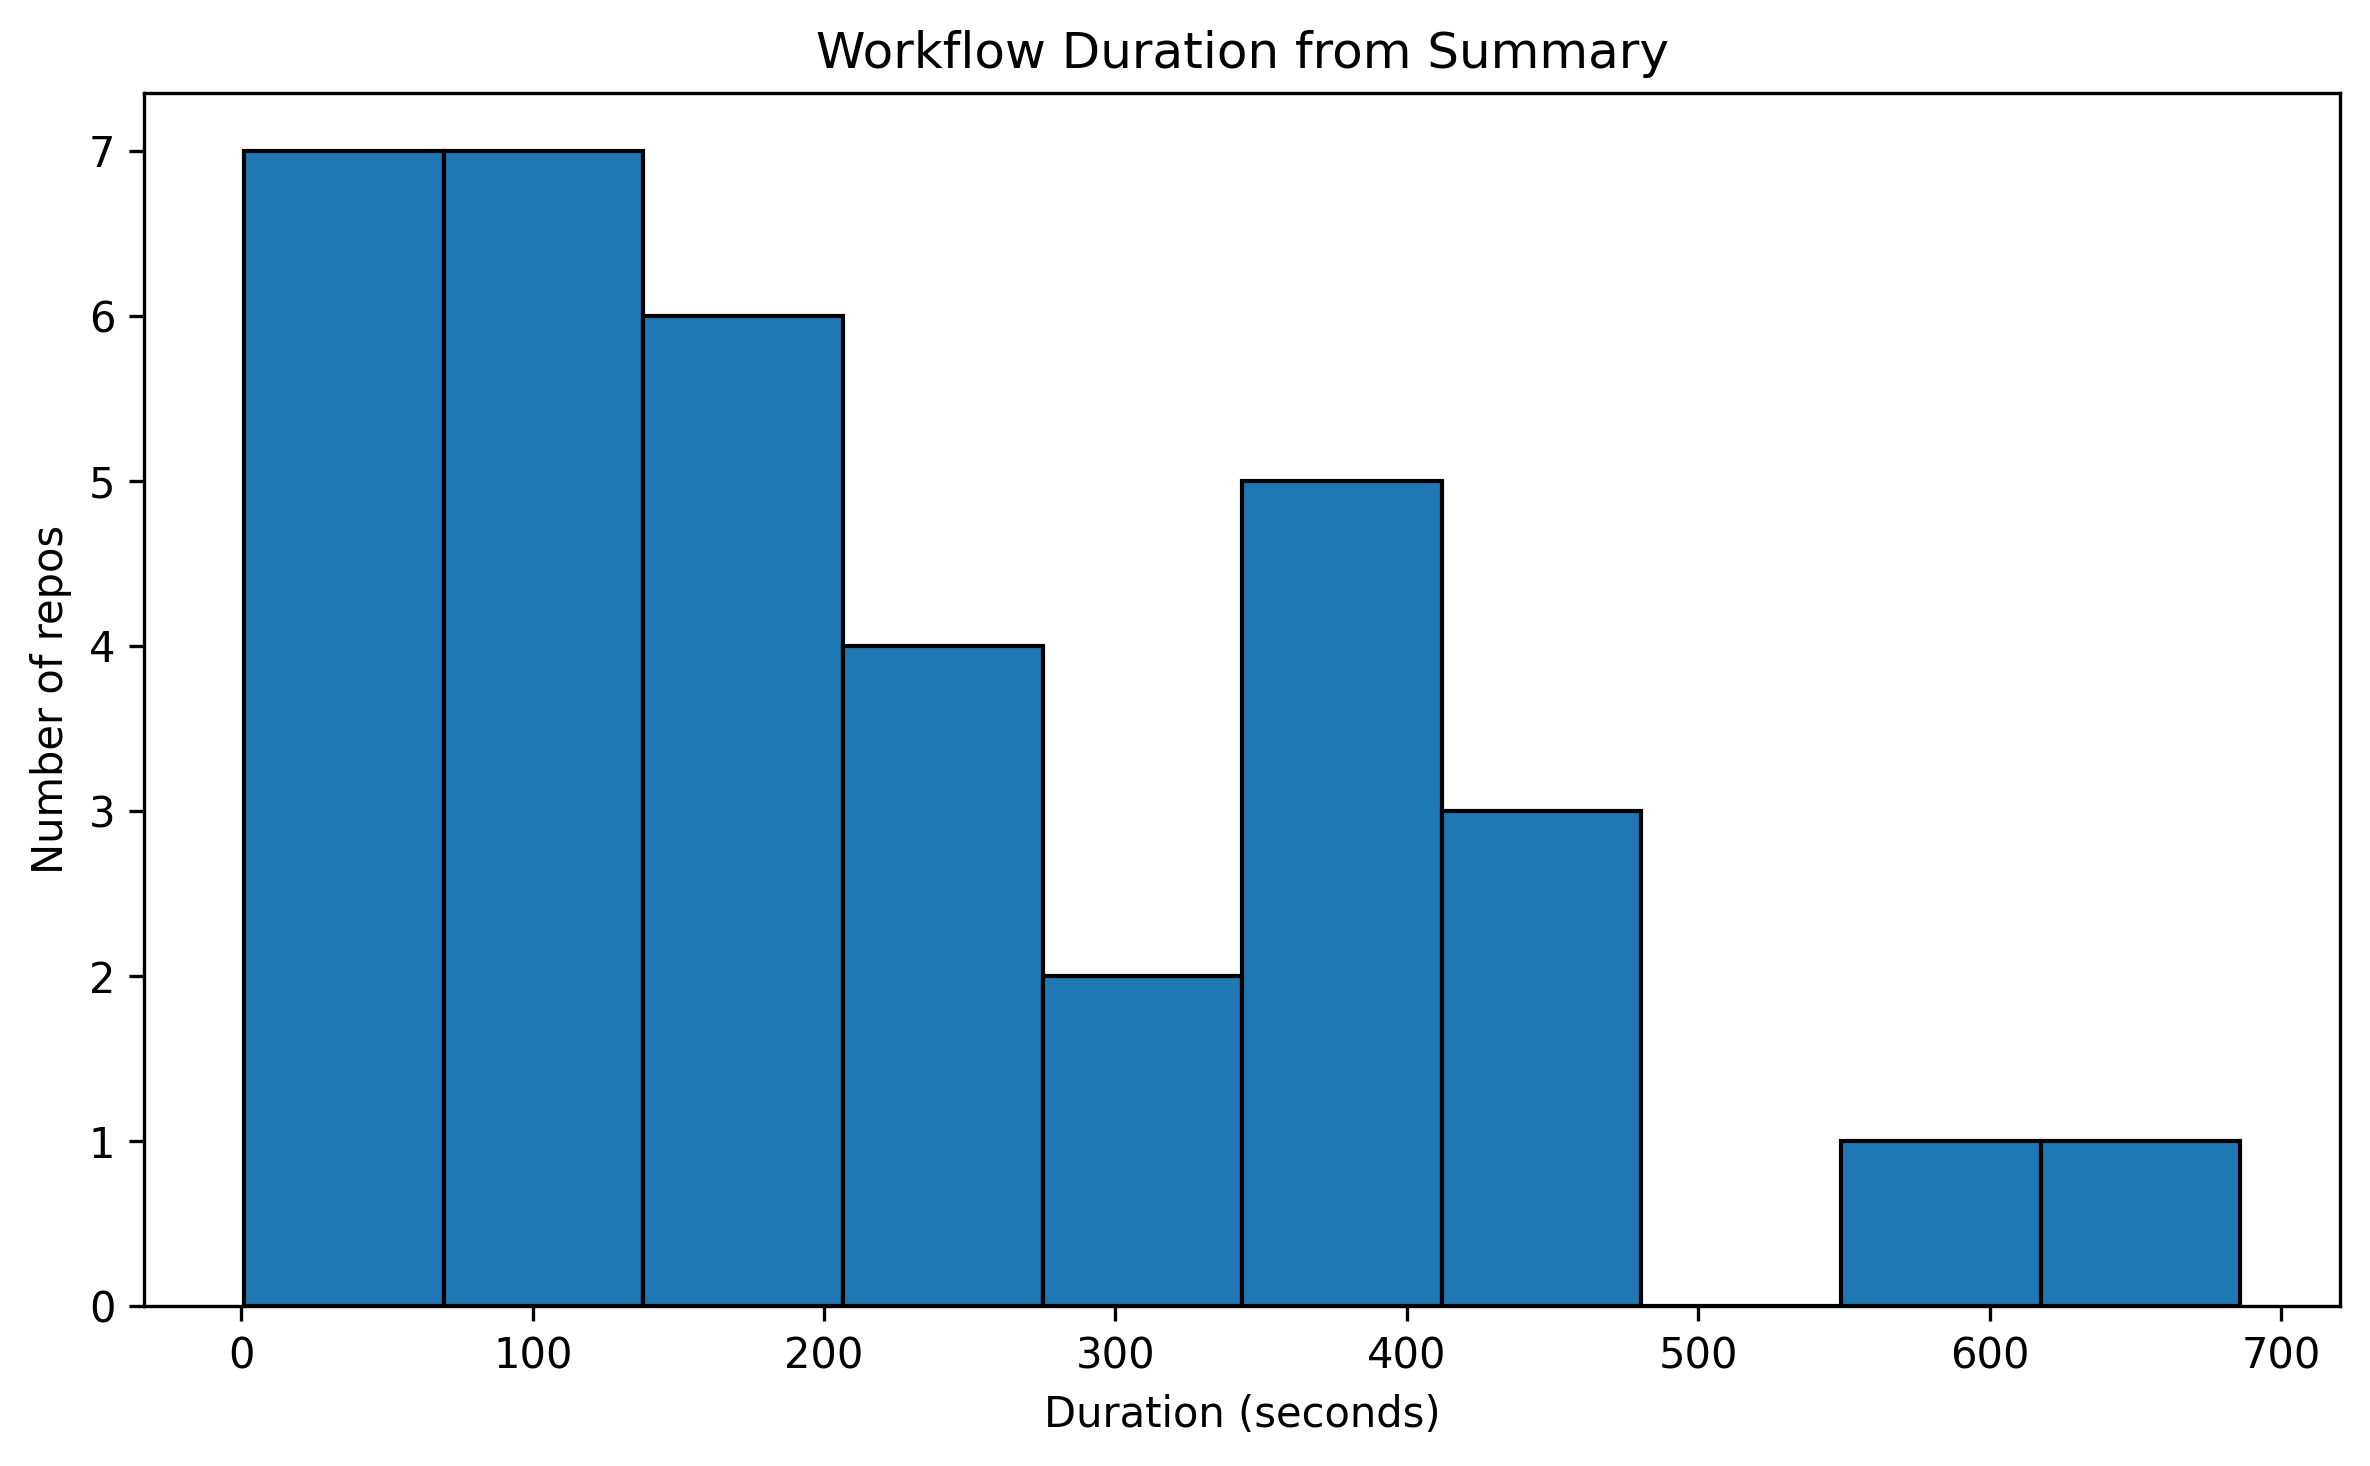
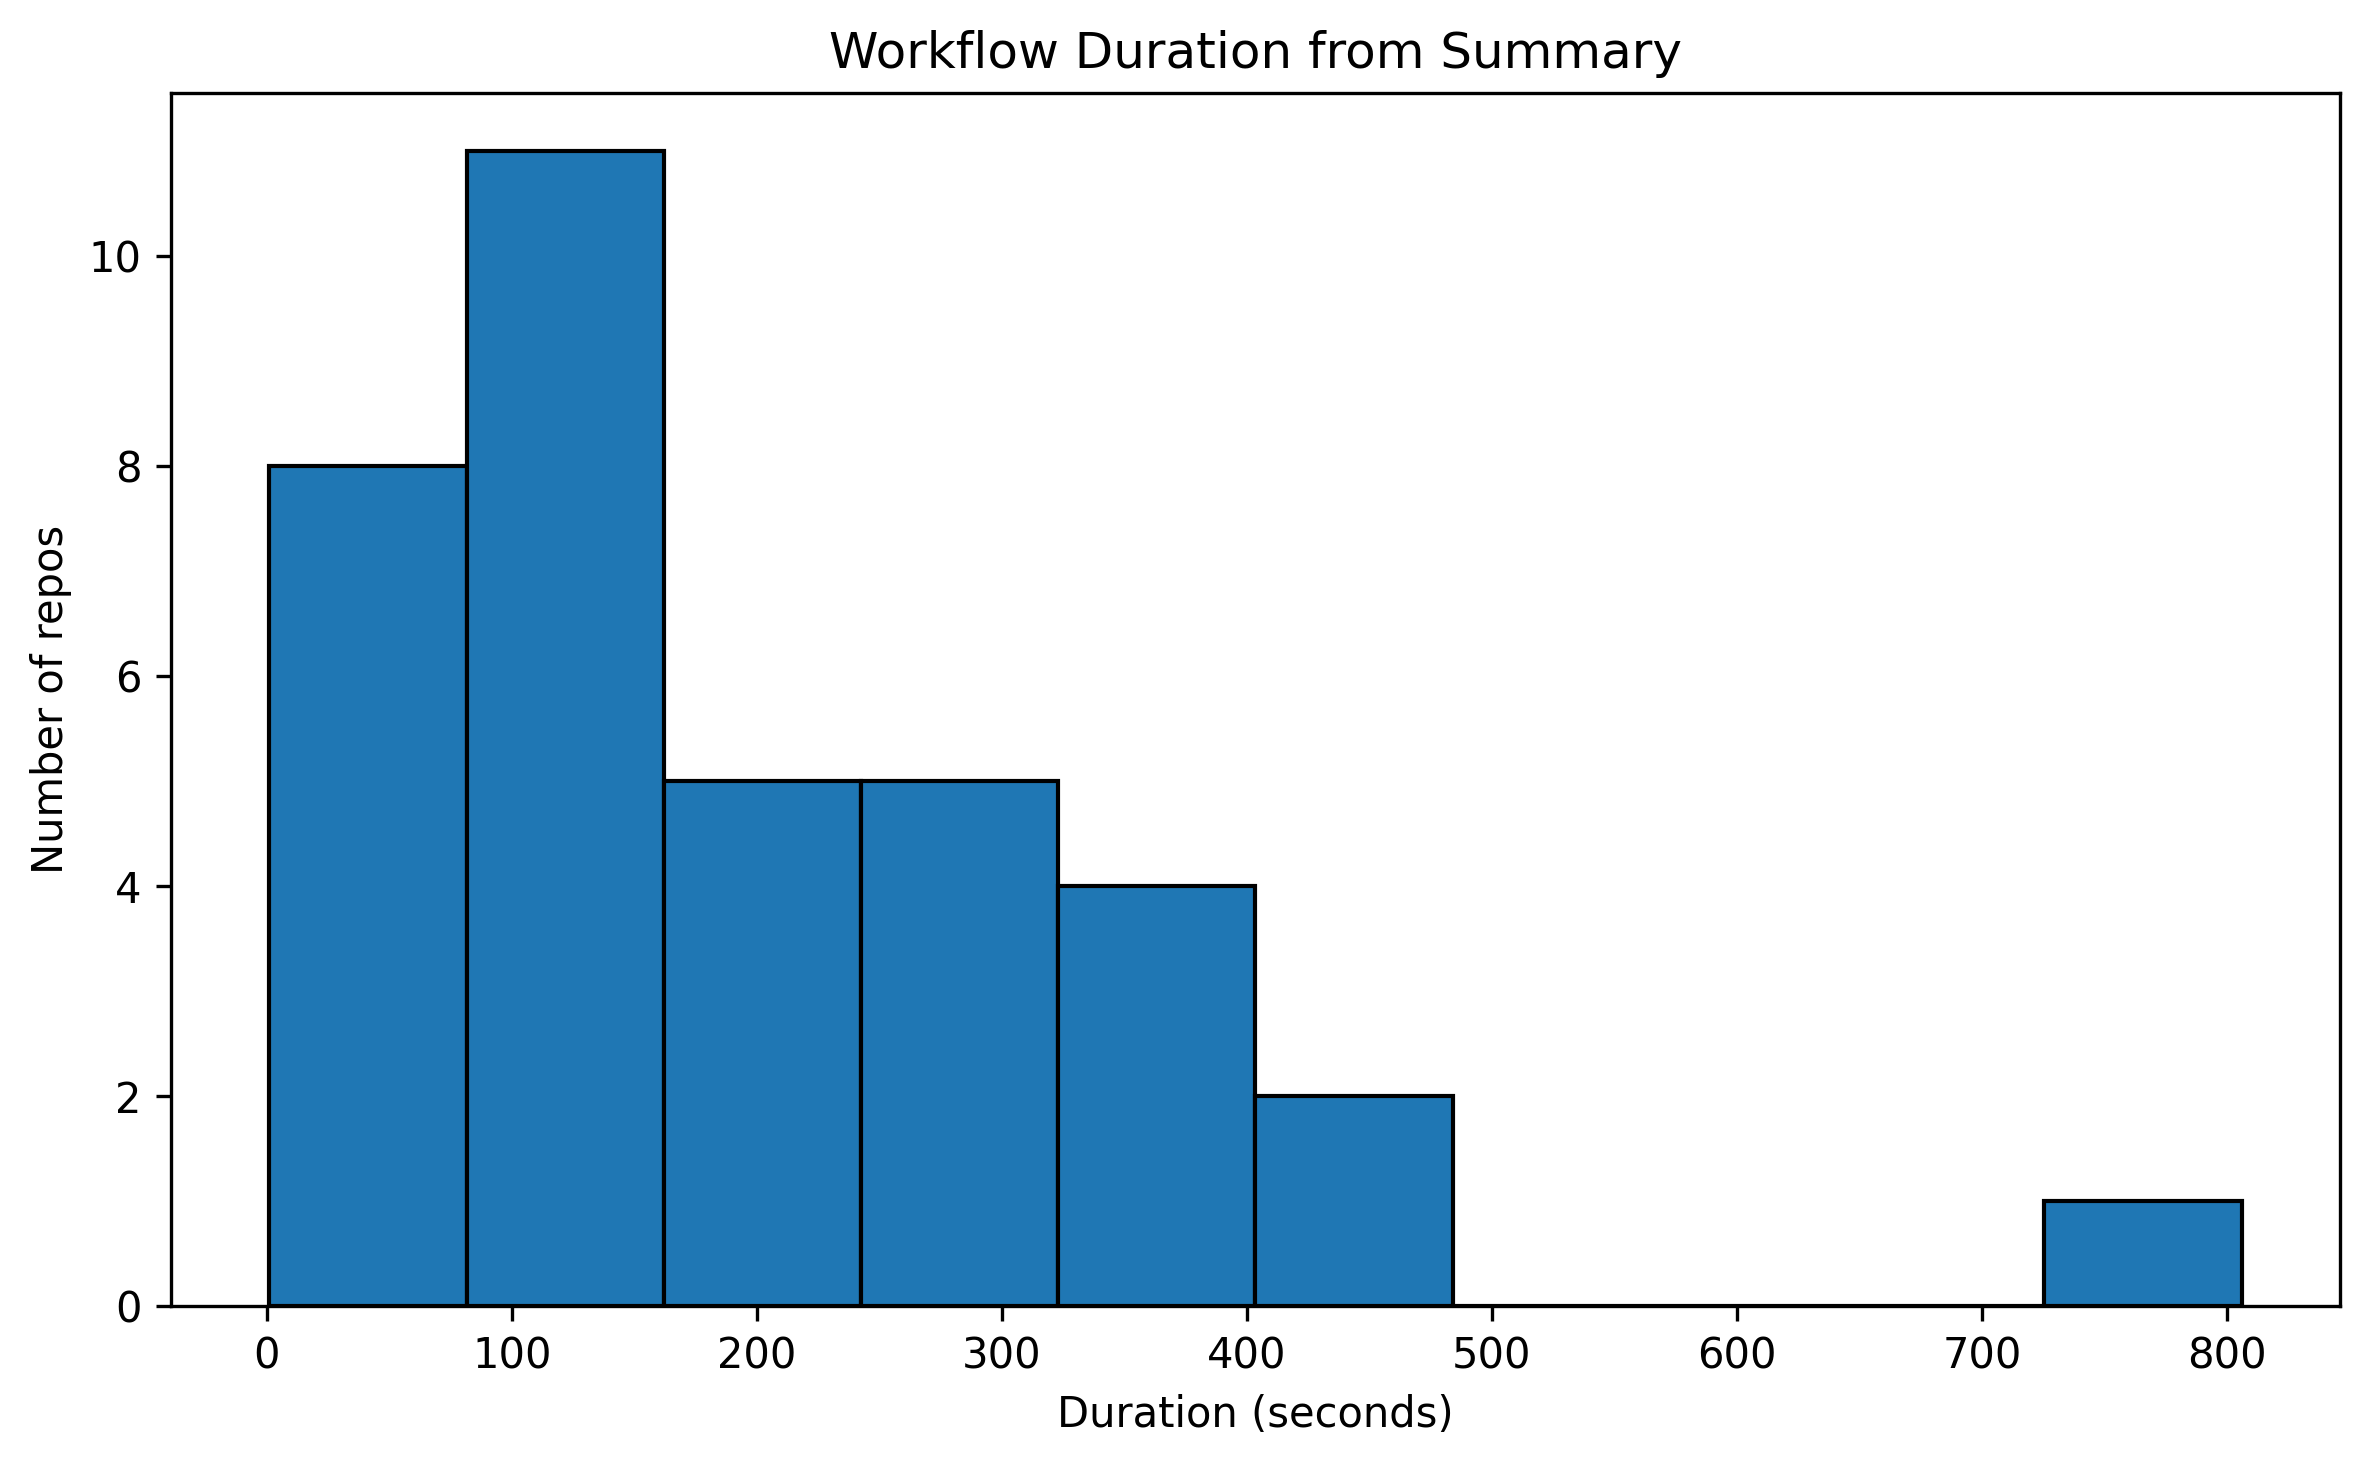
Update overview report

diff --git a/review_outputs/overview/overview.md b/review_outputs/overview/overview.md
@@ -4,7 +4,7 @@
 
 The total number of workflows is 36.0.
 
-The average workflow duration for successful workflows is 271.0 seconds.
+The average workflow duration for successful workflows is 230.0 seconds.
 
 
 
